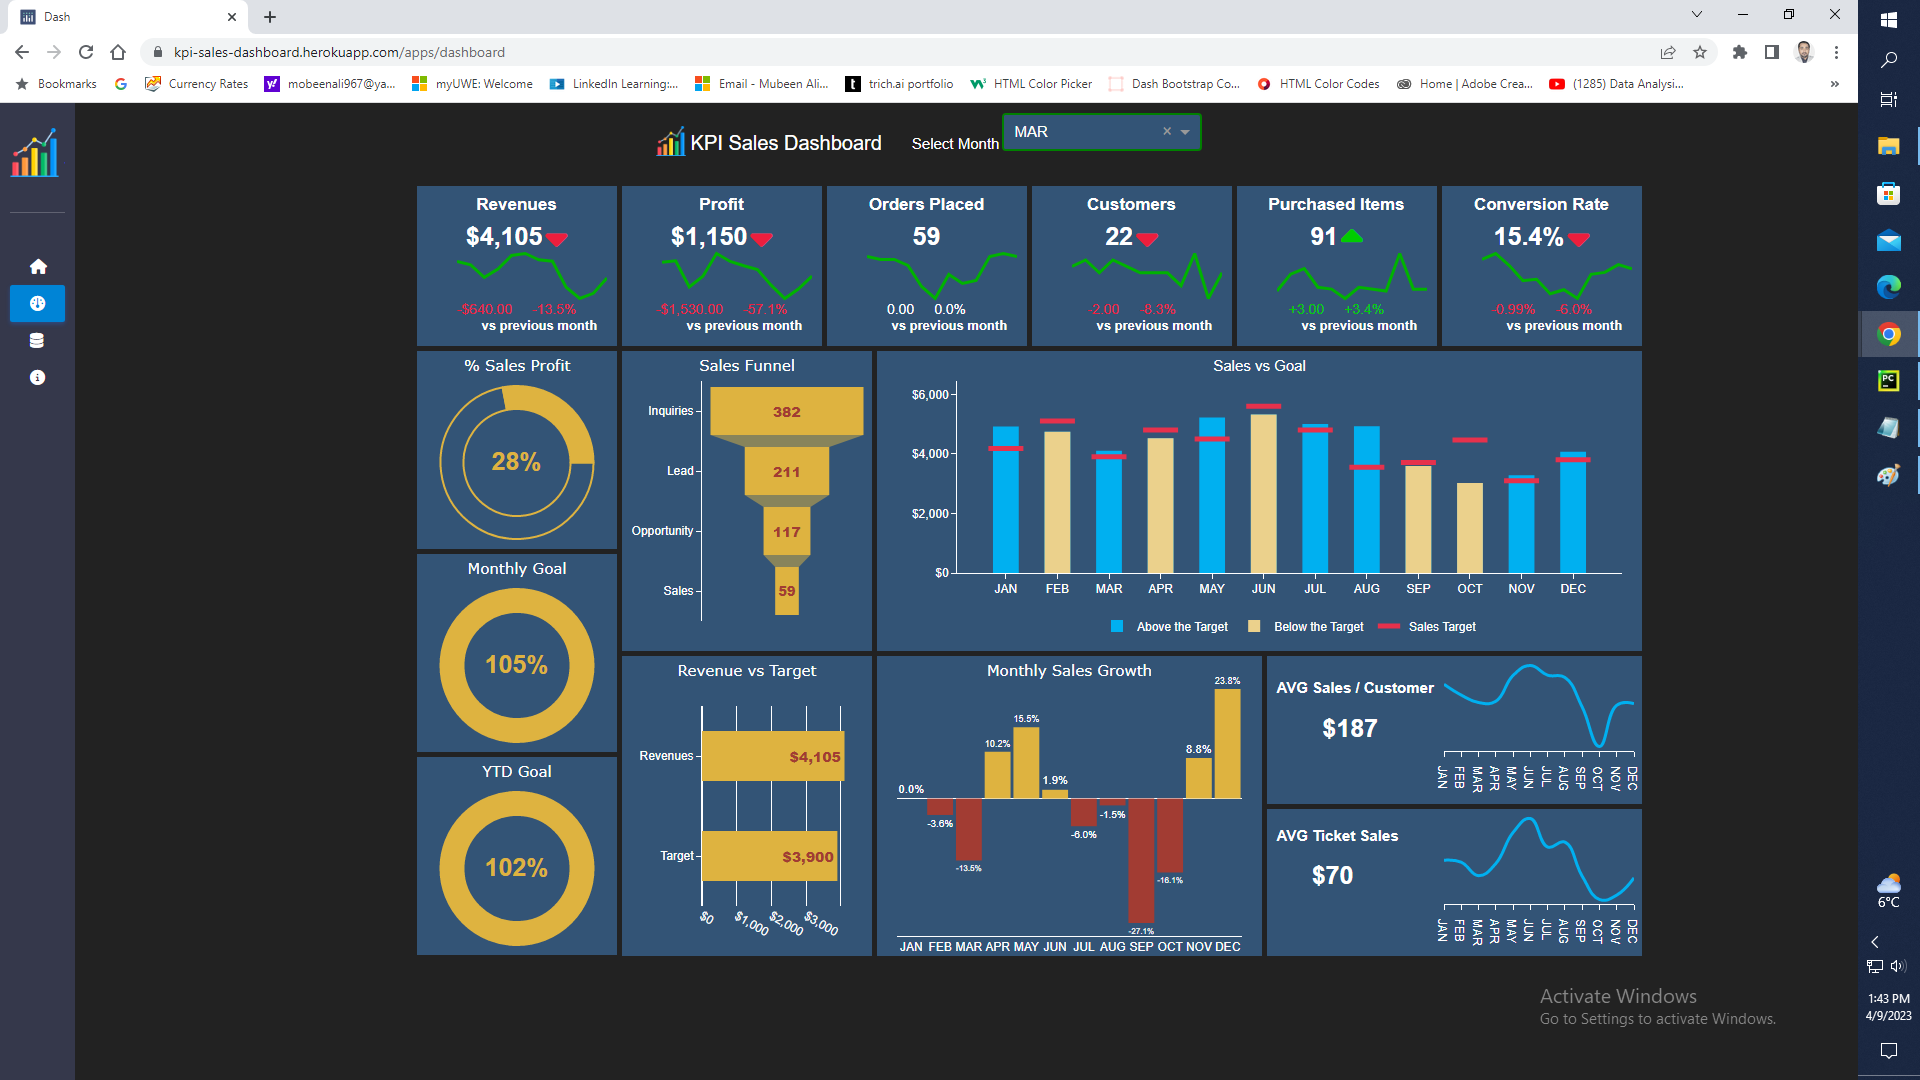
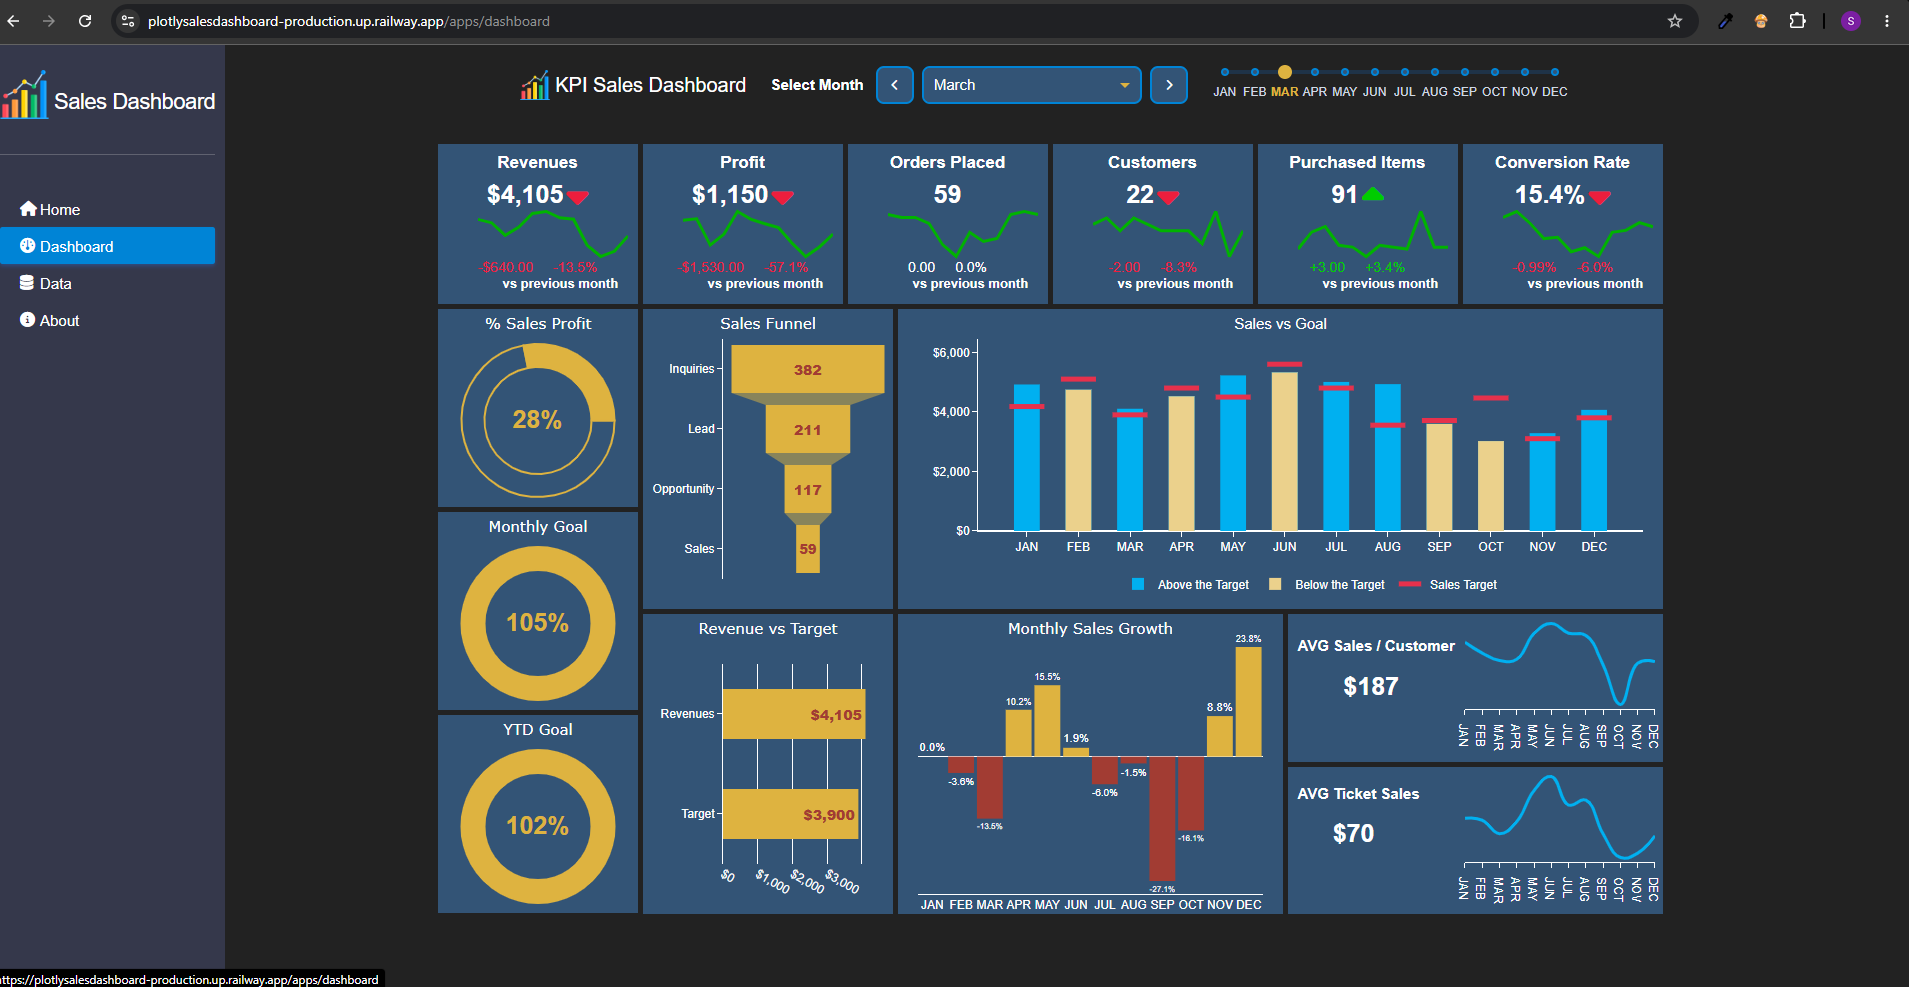
text adding

diff --git a/README.MD b/README.MD
@@ -1,6 +1,11 @@
-# Plotly_Sales_dashboard
 
-### KPI sales dashboard in Python by Plotly Dash
+## Plotly Sales Dashboard
+
+## 🚀 Live Dashboard
+
+👉 **[View Live Sales Dashboard](https://plotlysalesdashboard-production.up.railway.app/)**
+
+The dashboard is deployed on Railway and is available online.
 
 ![](Untitled.png)
 
